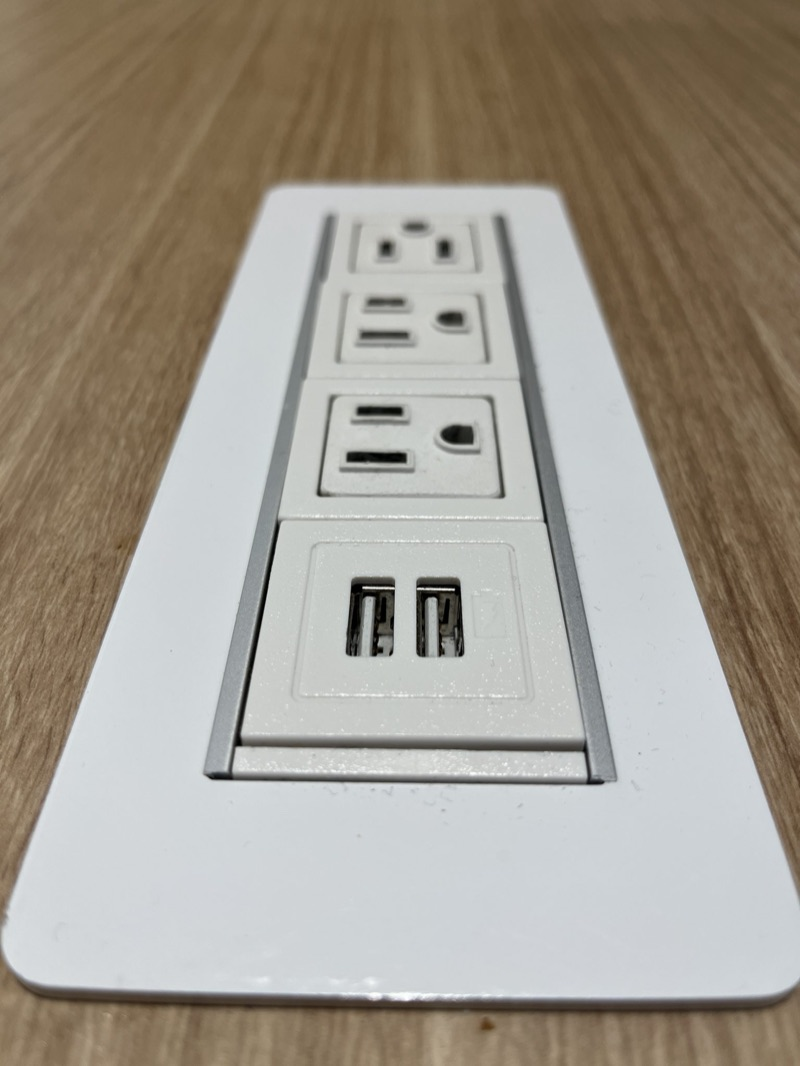
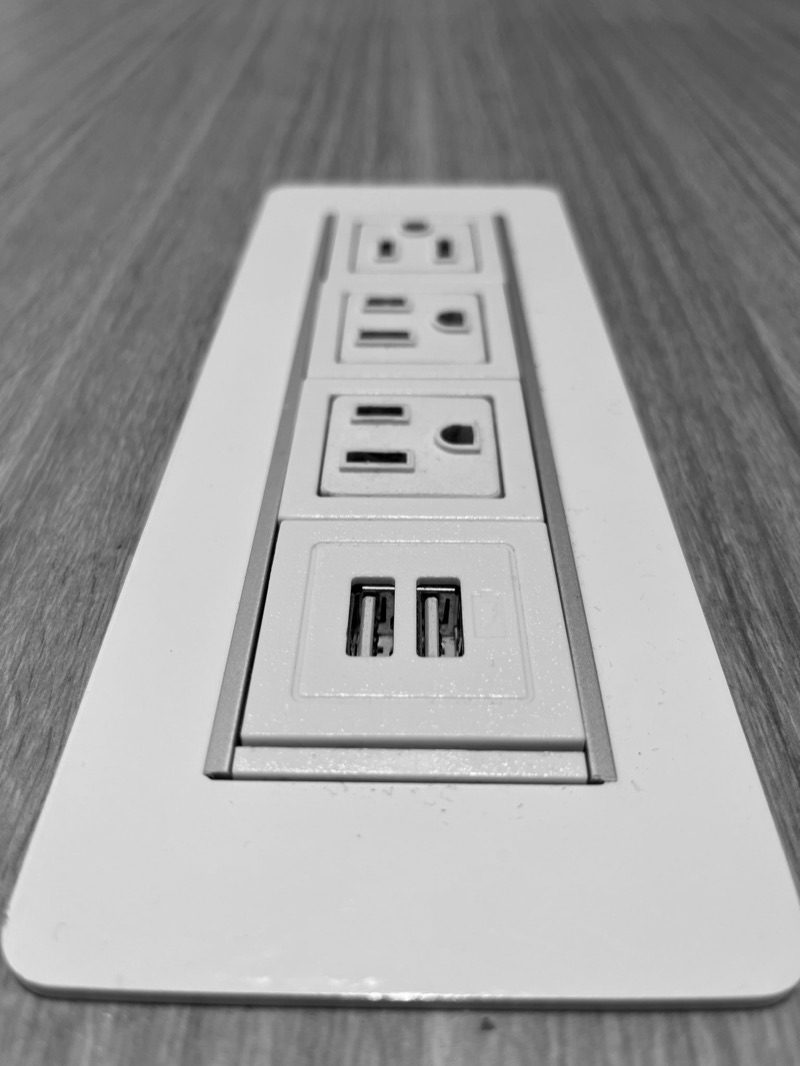
content: on-topic black-and-white photos for the electrician demo
New CC0 photos from Wikimedia Commons: an electrician at a meter base and
junction box, gloved hands at a row of meter bases, and a house service mast.
fetch-photos gains two optional photos.json fields, crop (source pixels) and
mono (baked black and white, smaller than a CSS filter); every trades photo
is now mono. CREDITS.md regenerated. Types gain the work-order block.

diff --git a/lib/types.ts b/lib/types.ts
@@ -52,6 +52,10 @@ export type PhotoEntry = {
   license: string;
   licenseUrl: string;
   creator: string;
+  /** [x, y, width, height] in source pixels, applied before resizing. */
+  crop?: [number, number, number, number];
+  /** Bake the photo in black and white. */
+  mono?: boolean;
 };
 export type NavItem = { label: string; href: string };
 export type Card = { title: string; body: string };
@@ -143,6 +147,7 @@ export type Design = {
 export type HomeBlock = { tone: Tone; space: Space } & (
   | { kind: 'strip'; items: { photo: Photo; caption: string }[] }
   | { kind: 'services'; title: Voice; count: number; label?: string }
+  | { kind: 'workorder'; title: Voice; label?: string; body: string }
   | { kind: 'symptoms'; title: Voice; note?: string }
   | { kind: 'faq'; title: Voice }
   | { kind: 'reviews'; title: Voice; variant: 'stack' }
@@ -190,6 +195,21 @@ export type SiteConfigV2 = {
   stats?: Stat[];
   symptoms?: string[];
   faq?: { q: string; a: string }[];
+  workOrder?: WorkOrder;
+  /** One line on licensing and insurance, shown in the footer and on the contact page. */
+  credentials?: string;
+};
+
+/** A filled-in sample work order, shown as one paper sheet. */
+export type WorkOrder = {
+  number: string;
+  fields: { label: string; value: string }[];
+  checkedTitle: string;
+  checked: string[];
+  price: { label: string; amount: string; note: string };
+  permits: { label: string; status: string }[];
+  signoff: string;
+  signatures: [string, string];
 };
 
 export type SiteConfig = SiteConfigV1 | SiteConfigV2;

diff --git a/CREDITS.md b/CREDITS.md
@@ -54,8 +54,9 @@ Every photo is in the public domain (CC0 or Public Domain Mark) and was found th
 
 | File | Photo | Creator | Licence |
 |---|---|---|---|
-| public/trades/hero.jpg | [source](https://stocksnap.io/photo/construction-worker-6B70C91911) | Leeroy | [CC0 1.0](https://creativecommons.org/publicdomain/zero/1.0/) |
-| public/trades/team.jpg | [source](https://stocksnap.io/photo/house-home-9G5X445AP9) | WDnet Studio | [CC0 1.0](https://creativecommons.org/publicdomain/zero/1.0/) |
+| public/trades/hero.jpg | [source](https://commons.wikimedia.org/w/index.php?curid=31933227) | Tomwsulcer | [CC0 1.0](https://creativecommons.org/publicdomain/zero/1.0/) |
+| public/trades/team.jpg | [source](https://commons.wikimedia.org/w/index.php?curid=31933230) | Tomwsulcer | [CC0 1.0](https://creativecommons.org/publicdomain/zero/1.0/) |
+| public/trades/crew.jpg | [source](https://commons.wikimedia.org/w/index.php?curid=15980676) | Chetvorno | [CC0 1.0](https://creativecommons.org/publicdomain/zero/1.0/) |
 | public/trades/gallery-1.jpg | [source](https://stocksnap.io/photo/electrical-outlets-ZE54KB2ZLQ) | Design by Matt | [CC0 1.0](https://creativecommons.org/publicdomain/zero/1.0/) |
 | public/trades/gallery-2.jpg | [source](https://www.rawpixel.com/image/5937771/free-public-domain-cc0-photo) | Unknown | [CC0 1.0](https://creativecommons.org/publicdomain/zero/1.0/) |
 | public/trades/gallery-3.jpg | [source](https://www.rawpixel.com/image/6081044/electric-car-charging-station) | Unknown | [CC0 1.0](https://creativecommons.org/publicdomain/zero/1.0/) |
